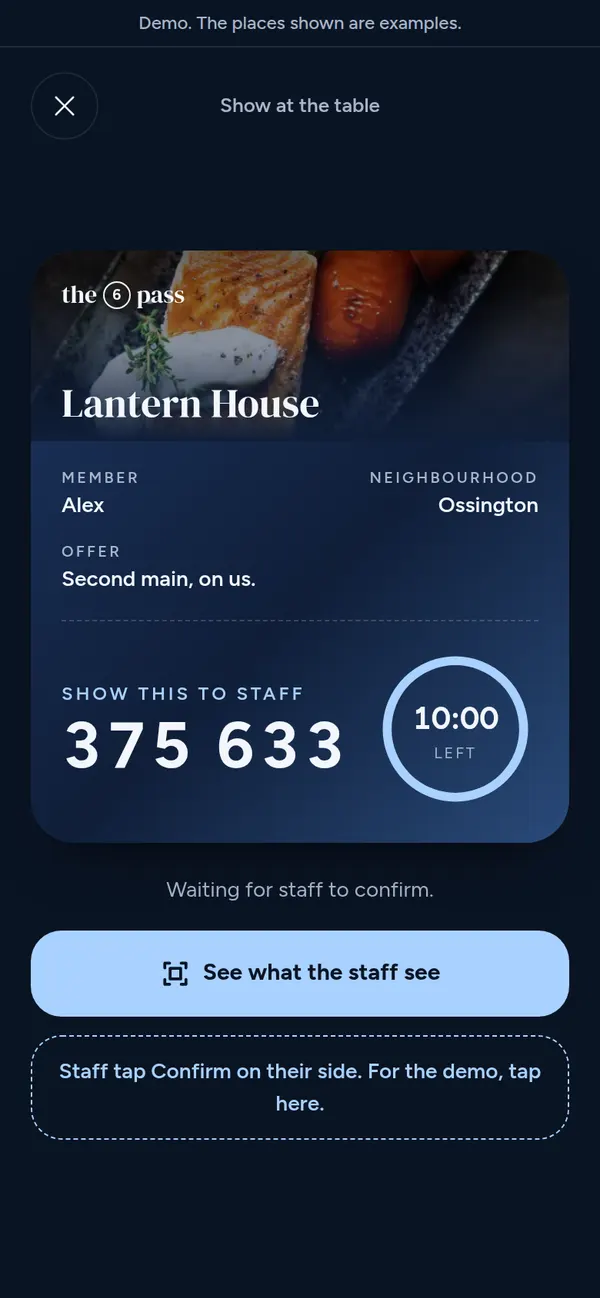
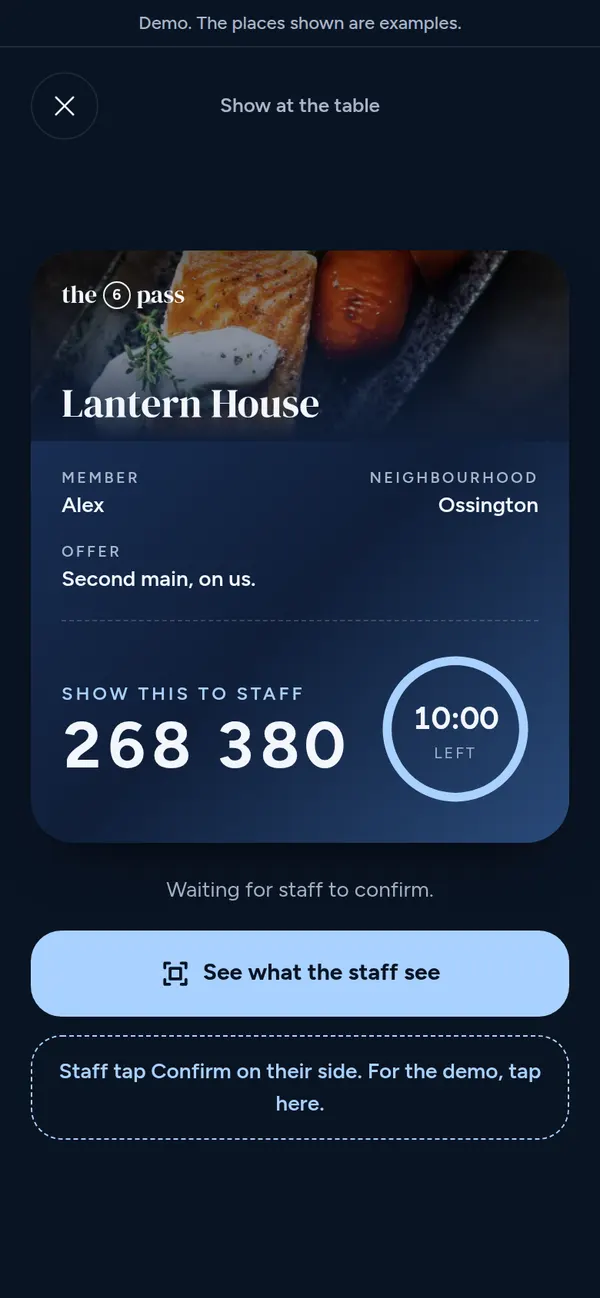
Owners page shows the real app screens; app skip link; photo caching
- Owners: each redeem step shows its screen (member taps Redeem, the
  code, the staff Confirm screen, same code on both), and Your offer
  sits next to 'You set every part of it'. Link goes to the partner
  side of the demo.
- 'Most partners start with two' claimed partners we don't have yet:
  now 'The default is two.'
- /app wraps screens in <main id=main> so the skip link has a target
  (Lighthouse accessibility 98 to 100).
- Netlify caches /demo and /preview photos for a week.
- PhoneShot component shared by home and owners.

Changed region(s): [[0.12, 0.5547, 0.33, 0.6163], [0.36, 0.5547, 0.57, 0.5855]]

diff --git a/src/app/(site)/owners/page.tsx b/src/app/(site)/owners/page.tsx
@@ -4,6 +4,7 @@ import { ownersPage as c } from "@/content/owners";
 import { site } from "@/content/site";
 import { SiteHeader } from "@/components/SiteHeader";
 import { SiteFooter } from "@/components/SiteFooter";
+import { PhoneShot } from "@/components/PhoneShot";
 
 export const metadata: Metadata = {
   title: c.seo.title,
@@ -48,7 +49,13 @@ export default function Owners() {
 
         <section aria-labelledby="control-title" className="bg-white py-16 md:py-24">
           <div className="wrap grid gap-10 md:grid-cols-[0.8fr_1.2fr] md:gap-16">
-            <h2 id="control-title" className={h2}>{c.control.title}</h2>
+            <div>
+              <h2 id="control-title" className={h2}>{c.control.title}</h2>
+              <figure className="mt-10 hidden max-w-[260px] md:block">
+                <PhoneShot src={c.control.screen.src} alt={c.control.screen.alt} />
+                <figcaption className="mt-3 text-sm text-muted">{c.control.screen.caption}</figcaption>
+              </figure>
+            </div>
             <ul className="border-t-[1.5px] border-ink">
               {c.control.items.map((i) => (
                 <li key={i.title} className="grid gap-1 border-b border-ink/15 py-5 sm:grid-cols-[180px_1fr] sm:gap-6">
@@ -121,12 +128,14 @@ export default function Owners() {
                   </span>
                   <h3 className="mt-1 text-[21px] font-semibold md:mt-4">{s.title}</h3>
                   <p className="mt-1.5 max-w-[30ch] text-pale">{s.text}</p>
+                  <PhoneShot src={s.screen.src} alt={s.screen.alt} className="col-start-2 mt-5 max-w-[220px] md:max-w-[260px]" />
                 </li>
               ))}
             </ol>
-            <p className="mt-10">
-              <Link href="/demo" className="font-semibold text-peach underline underline-offset-4 hover:text-peach-soft">
-                Try the demo on your phone
+            <p className="mt-6 text-sm text-pale">{c.redeem.label}</p>
+            <p className="mt-6">
+              <Link href="/app/partner" className="font-semibold text-peach underline underline-offset-4 hover:text-peach-soft">
+                {c.redeem.link}
               </Link>
             </p>
           </div>

diff --git a/src/content/owners.ts b/src/content/owners.ts
@@ -22,6 +22,7 @@ export const ownersPage = {
 
   control: {
     title: "You set every part of it.",
+    screen: { src: "/preview/offer", alt: "The Your offer screen in the partner app, with the offer type, wording and days it runs.", caption: "Your offer, in the partner app. Change it any time." },
     items: [
       {
         title: "The offer",
@@ -33,7 +34,7 @@ export const ownersPage = {
       },
       {
         title: "The limit",
-        text: "Decide how many times each member can use it in a year. Most partners start with two.",
+        text: "Decide how many times each member can use it in a year. The default is two.",
       },
       {
         title: "Blackout dates",
@@ -88,10 +89,24 @@ export const ownersPage = {
 
   redeem: {
     title: "At the table, it takes ten seconds.",
+    label: "Screens from the app demo. The place is made up.",
+    link: "Try both sides of the demo",
     steps: [
-      { title: "The member taps Redeem", text: "They do it at the table or front desk, before the bill." },
-      { title: "They show you a code", text: "A six-digit code that lasts ten minutes." },
-      { title: "You confirm it", text: "One tap on your side. Take the second one off the bill as you normally would." },
+      {
+        title: "The member taps Redeem",
+        text: "They do it at the table or front desk, before the bill.",
+        screen: { src: "/preview/place", alt: "A place in the member app, with its offer and a Redeem button." },
+      },
+      {
+        title: "They show you a code",
+        text: "A six-digit code that lasts ten minutes.",
+        screen: { src: "/preview/code", alt: "The member's screen showing a six-digit code and a ten-minute timer." },
+      },
+      {
+        title: "You confirm it",
+        text: "One tap on your side. Take the second one off the bill as you normally would.",
+        screen: { src: "/preview/staff", alt: "The staff screen, showing the same code and a Confirm button." },
+      },
     ],
   },
 

diff --git a/src/app/(site)/page.tsx b/src/app/(site)/page.tsx
@@ -15,6 +15,7 @@ import { SiteHeader } from "@/components/SiteHeader";
 import { SiteFooter } from "@/components/SiteFooter";
 import { PassCard } from "@/components/PassCard";
 import { MobileJoinBar } from "@/components/MobileJoinBar";
+import { PhoneShot } from "@/components/PhoneShot";
 import { WaitlistForm } from "@/components/WaitlistForm";
 import { OpenWaitlistButton, WaitlistPopup } from "@/components/WaitlistPopup";
 import { Countdown } from "@/components/Countdown";
@@ -135,10 +136,7 @@ export default function Home() {
               {appPreview.screens.map((sc) => (
                 <li key={sc.src} className="w-[72%] max-w-[300px] shrink-0 snap-center md:w-auto md:max-w-none">
                   <figure>
-                    <div className="overflow-hidden rounded-[28px] border-[6px] border-[#1b2333] bg-[#0a1424]">
-                      {/* eslint-disable-next-line @next/next/no-img-element -- static export, images are pre-sized */}
-                      <img src={`${sc.src}.webp`} alt={sc.alt} width={600} height={1298} loading="lazy" decoding="async" className="block h-auto w-full" />
-                    </div>
+                    <PhoneShot src={sc.src} alt={sc.alt} />
                     <figcaption className="mt-3 text-pale">{sc.caption}</figcaption>
                   </figure>
                 </li>

diff --git a/src/mock/AppShell.tsx b/src/mock/AppShell.tsx
@@ -53,9 +53,11 @@ export function AppShell({ children }: { children: React.ReactNode }) {
           {copy.banner}
         </p>
 
-        <div id="app-scroll" className="no-scrollbar relative min-h-0 flex-1 overflow-y-auto overscroll-contain">
-          {children}
-        </div>
+        <main id="main" tabIndex={-1} className="flex min-h-0 flex-1 flex-col outline-none">
+          <div id="app-scroll" className="no-scrollbar relative min-h-0 flex-1 overflow-y-auto overscroll-contain">
+            {children}
+          </div>
+        </main>
 
         {showTabs && (
           <nav aria-label="App" className="absolute inset-x-4 bottom-[max(env(safe-area-inset-bottom),14px)] z-20 rounded-[26px] border px-2 py-1.5 backdrop-blur-xl md:bottom-6" style={{ background: "rgba(18,32,56,0.9)", borderColor: C.line }}>

diff --git a/src/components/PhoneShot.tsx b/src/components/PhoneShot.tsx
@@ -1,0 +1,9 @@
+/** A real screen from the /app demo in a simple phone frame. Images are 600x1298. */
+export function PhoneShot({ src, alt, className = "" }: { src: string; alt: string; className?: string }) {
+  return (
+    <div className={`overflow-hidden rounded-[28px] border-[6px] border-[#1b2333] bg-[#0a1424] ${className}`}>
+      {/* eslint-disable-next-line @next/next/no-img-element -- static export, images are pre-sized */}
+      <img src={`${src}.webp`} alt={alt} width={600} height={1298} loading="lazy" decoding="async" className="block h-auto w-full" />
+    </div>
+  );
+}
